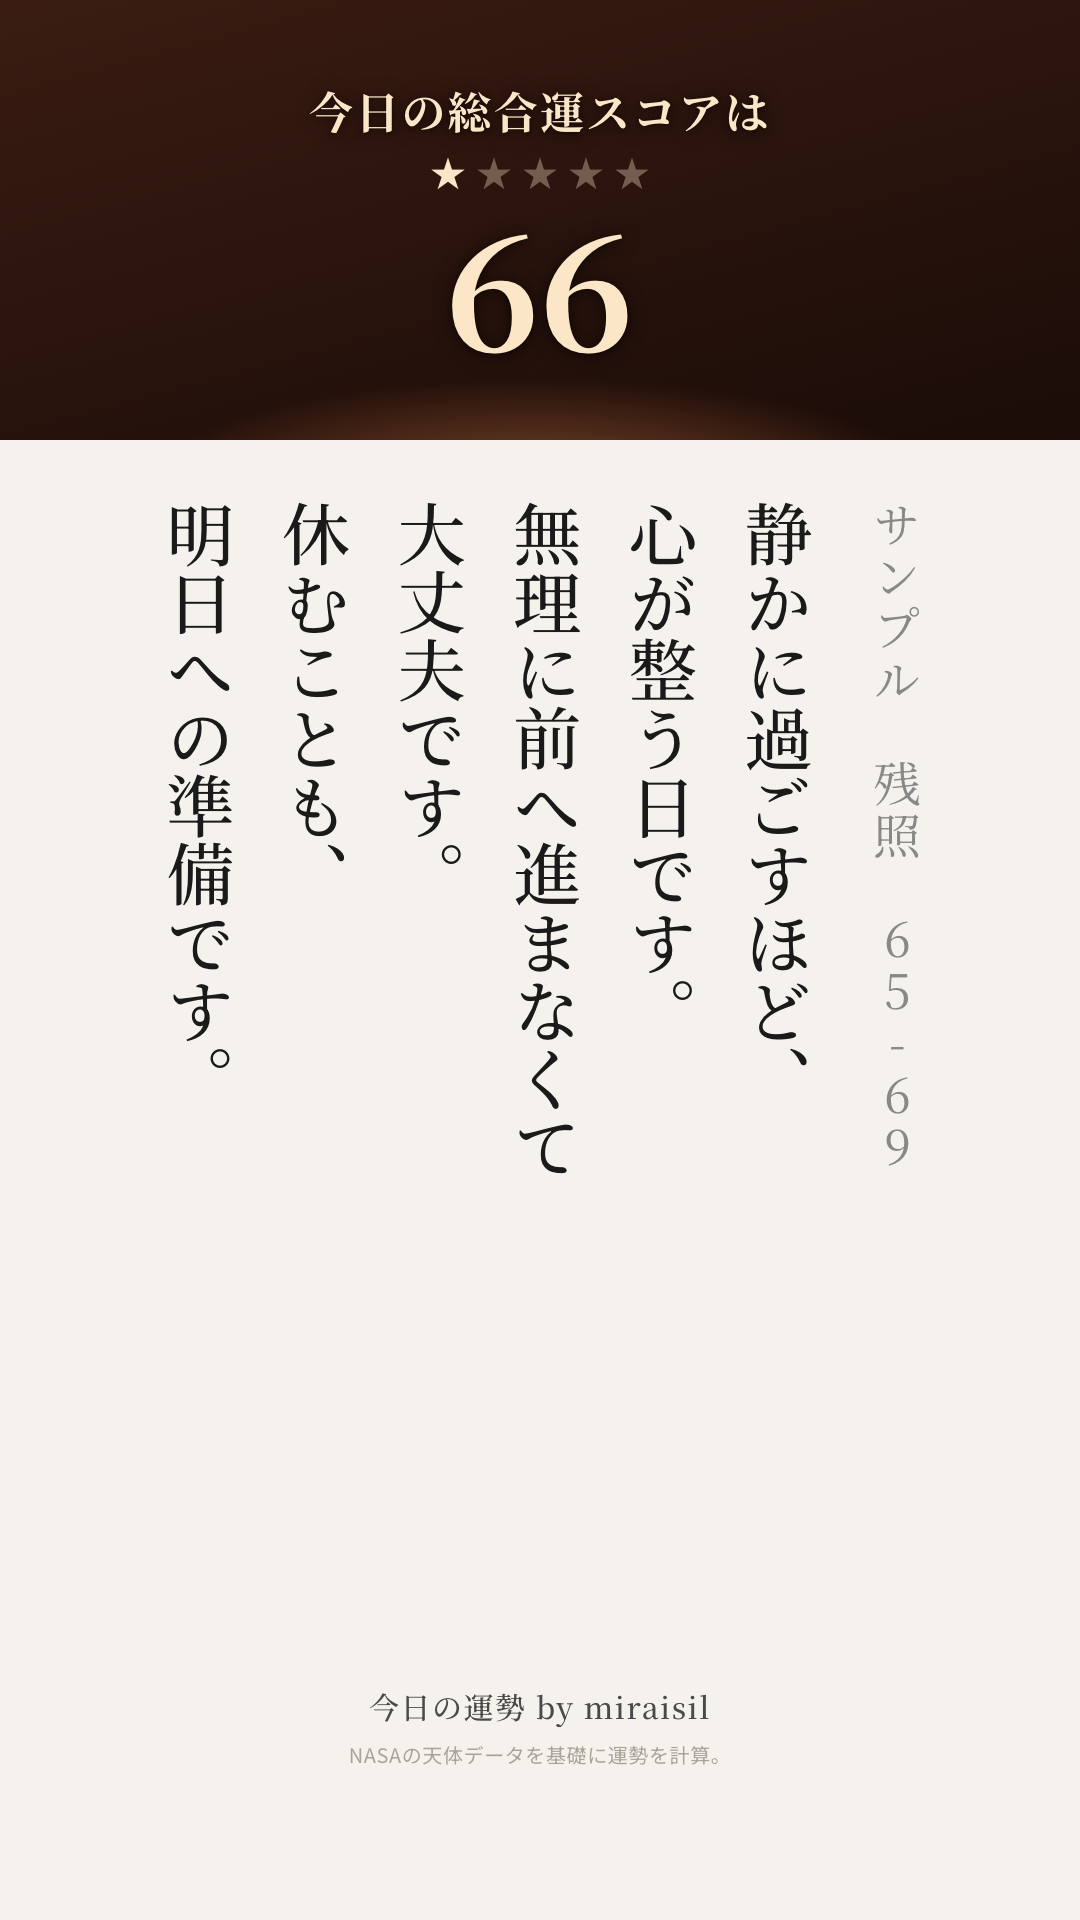
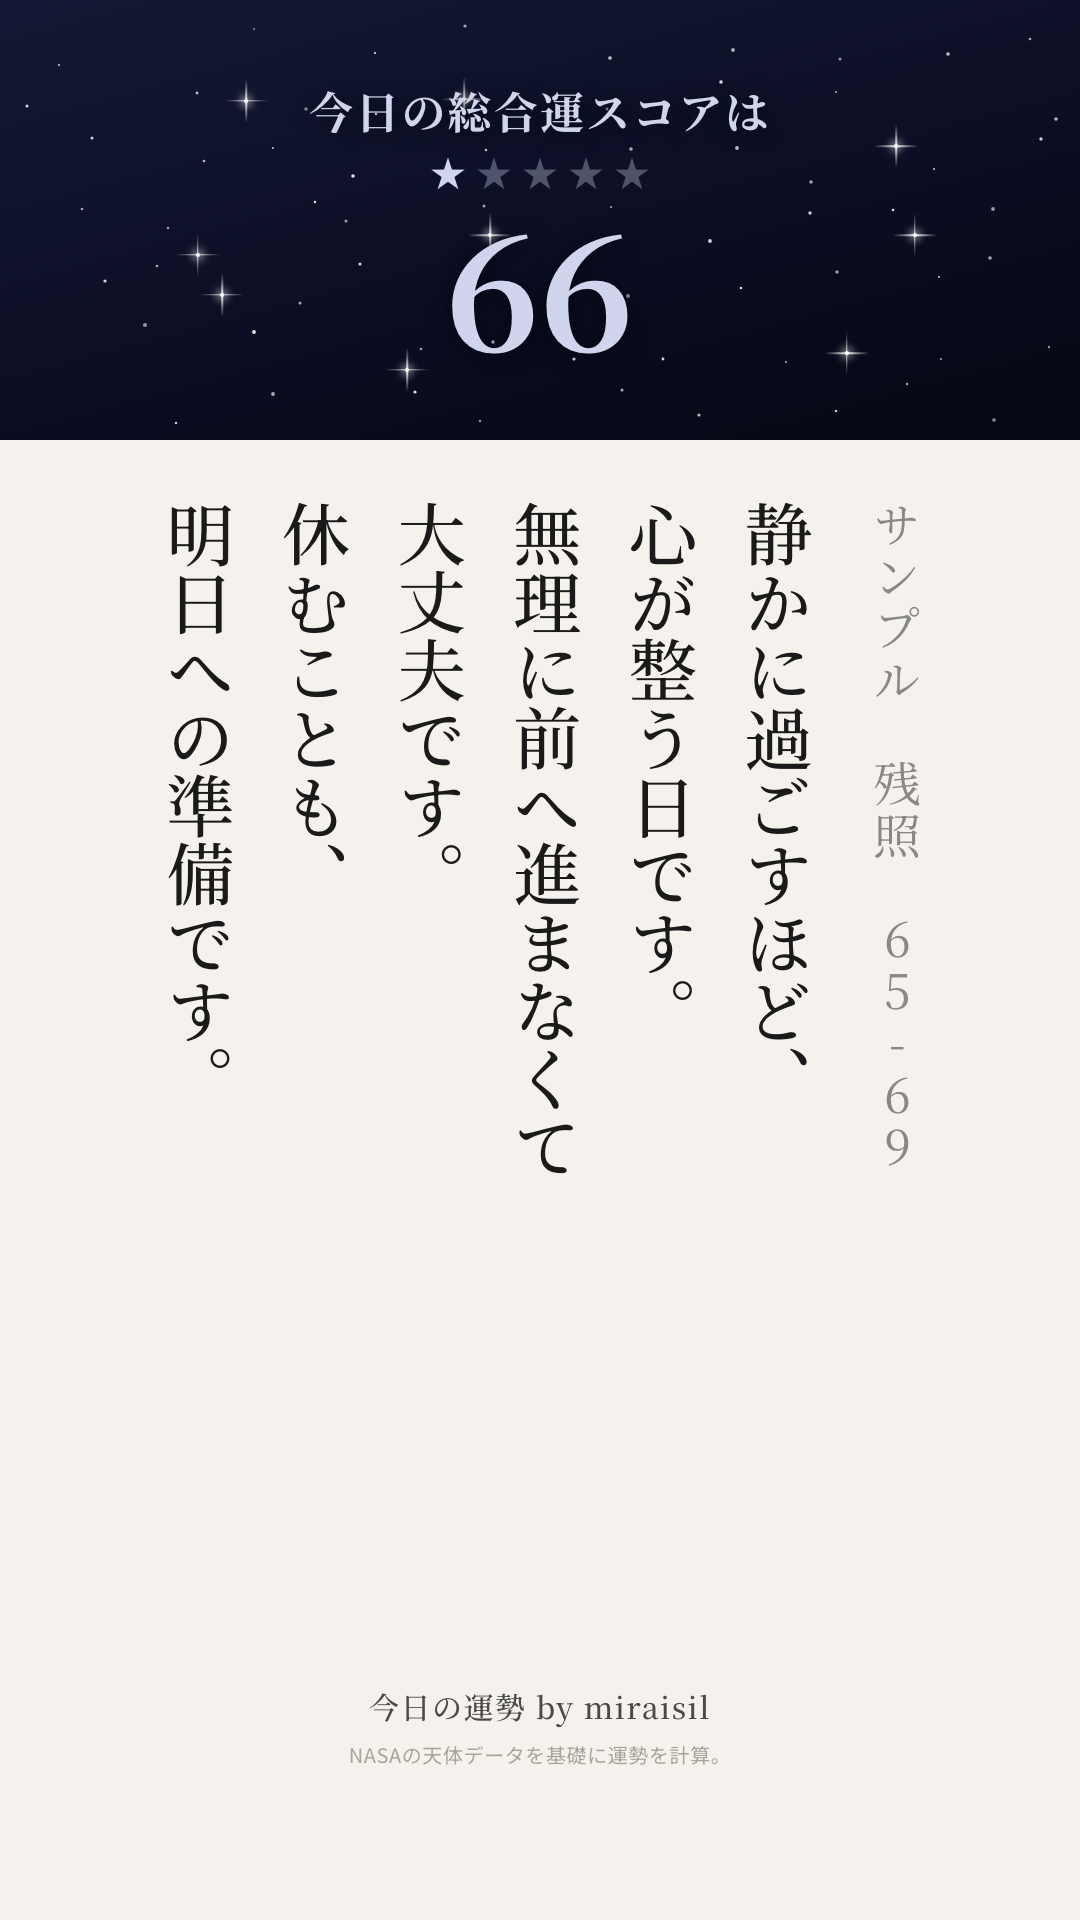
revert score band to the already-committed version (a499c89 / HEAD)
Today's session tried several score-band redesigns (warm-only, blue
spectrum, "small sky scene" sun prototypes), but a version had already
been finalized and committed yesterday (a499c89, unchanged through
HEAD). Reverts image_generator.py's score-band section back to HEAD
exactly, leaving today's unrelated CTA fixes untouched, and republishes
the confirmed 5-tier design (gold day -> real starfield night) here.
Removes the discarded sky-scene prototype images.

Changed region(s): [[0.0, 0.0, 1.0, 0.25]]

diff --git a/sky-test/index.html b/sky-test/index.html
@@ -4,7 +4,7 @@
 <meta charset="UTF-8">
 <meta name="viewport" content="width=device-width, initial-scale=1.0">
 <meta name="robots" content="noindex, nofollow">
-<title>スコア帯カラー「暖色・光の量」版 確認 | miraisil</title>
+<title>スコア帯カラー：確定版に差し戻し確認 | miraisil</title>
 <style>
   * { box-sizing: border-box; margin: 0; padding: 0; }
   body {
@@ -14,6 +14,7 @@
   h2 { text-align: center; font-size: 15px; letter-spacing: 0.1em; color: #ccc; margin: 30px 0 14px; }
   .label { text-align: center; font-size: 12px; letter-spacing: 0.1em; color: #999; margin-bottom: 10px; }
   .note { text-align: center; font-size: 12px; color: #888; margin: 0 20px 20px; line-height: 1.6; }
+  .note code { color: #bbb; background: #333; padding: 1px 5px; border-radius: 3px; }
   .row {
     display: flex; gap: 12px; overflow-x: auto; padding: 0 20px 10px;
     scroll-snap-type: x mandatory; -webkit-overflow-scrolling: touch;
@@ -24,95 +25,55 @@
   }
   figure { flex-shrink: 0; scroll-snap-align: start; }
   figcaption { text-align: center; font-size: 11px; color: #aaa; margin-top: 4px; }
+  .hr { border-top: 1px solid #3a3a3a; margin: 40px 20px; }
 </style>
 </head>
 <body>
-<div class="label">SCORE BAND COLOR「暖色・光の量」版 TEST &middot; Internal Only</div>
+<div class="label">SCORE BAND COLOR &middot; 確定版への差し戻し確認 &middot; Internal Only</div>
 <div class="note">
-方針転換: 「暗くしない・寒色/紫は一切使わない・全部暖色で明るい」。良し悪しの信号は
-明るさ/色相の飛びではなく「光の量」（太陽の白熱・光芒・きらめきの強さ）だけで表現する。
-高スコアほどエネルギッシュ、低スコアほど静かで柔らかい光になる。旧「漆黒の夜＋星空」
-（65-69）は廃止し、"静かな夕暮れ・残照"に置き換えた。
+本日このセッション中に何度もスコア帯（空グラデーション）を作り直したが、その前日
+（コミット時刻 2026-07-16 01:14）に一度「最終OK」となっていた版がすでに存在していた
+ため、本日分の変更（暖色オンリー版・青空スペクトル版・「小さな空の情景」プロトタイプ
+（96/85/77/66）等、一連の試行）はすべて破棄し、確定版に差し戻した。
+</div>
+<div class="note">
+確定版のコミット: <code>a499c89</code>（2026-07-16 01:14:09）
+「ストーリーズのスコア帯を空グラデーション5段階（信号版から刷新）に全面改修」<br>
+このコミットの内容は直後の <code>5629919</code>（2026-07-16 19:37:38・4枚構成への
+全面刷新）でも変更されずそのままHEADに残っていたため、実質的にHEAD =
+確定版のスコア帯、という状態だった。<br>
+差し戻し方法: <code>image_generator.py</code> の <code>SCORE_BAND_COLORS</code> /
+<code>_SKY_DECOR_CSS</code> / <code>_SKY_DECOR_HTML</code>（スコア帯生成部分一式）
+をHEAD時点の内容にそのまま置き換え。本日別途直したCTAスライド（見出し・サブライン・
+フッター位置）の変更はこの操作と無関係な箇所にあるため巻き込んでいない
+（<code>git diff HEAD</code> で確認済み、残る差分はCTA部分のみ）。
+</div>
+<div class="note">
+この操作は dataunsei-automation 側では何もコミットしていない（元々HEADと同じ内容に
+戻しただけなので、スコア帯に関して差分なし＝コミットの必要なし）。
 </div>
 
-<h2>「小さな空の情景」プロトタイプ（方針A・代表4スコアのみ）</h2>
+<h2>確定版：7段階（95-100 快晴 〜 65-69 夜）</h2>
 <div class="note">
-方針転換: 平らな色グラデでは暖色が金属/ブロンズに、中立ベージュが泥に見える問題を、
-"空の絵"にすることで解決する。色帯＝空、下のベージュ本文＝地面、境目＝地平線と捉え、
-空は「上空＝青、地平寄り＝暖色」の縦グラデを基本にした。太陽（円＋グロー）を1つ置き、
-その高さと輝きをスコアに連動させる: 96は澄んだ青空高くで白熱（光芒＋きらめき5個）、
-77は太陽が地平近くまで下がり上空は青のまま地平だけ金色に染まるゴールデンアワー、
-66は太陽が地平線ぎりぎり（大半が隠れる）で空は暖色の深い夕闇、地平にだけ残照が
-残る（真っ黒・紫にはしない）。<br>
-文字色は空の明暗に応じて調整: 96・85は濃紺、77は濃い金茶、66は淡い生成り。<br>
-背景グラデーションの色相は青(200-205°)→warm-neutral(37-60°、低彩度で緑を経由
-しない)→暖色(16-32°)の範囲のみで構成し、紫域・真っ黒は使用していません。<br>
-まずこの4枚（96/85/77/66）のみの実装です。7段階への正式展開は承認後に進めます。
-</div>
-<div class="note">
-【85を追加改善】指摘: 85が淡く洗い流されたような薄い空で、太陽も光芒なしで存在感が
-弱く、96と77に挟まれると"色あせて何もない"印象だった。→ 上空の青をより澄んで豊かな
-スカイブルーに（彩度47%→65%）、太陽にふんわり大きめのハローを追加して「陽が射して
-いる」存在感を出し、極薄の雲を3枚重ねて奥行きを足した（一色べったりのグラデを回避）。
-</div>
-<div class="note">
-【96と85の格差を再確保】指摘: 85を快晴に格上げした結果、96（青空＋白熱＋光芒）と
-85（青空＋ハロー＋薄雲）の差が縮まり、どちらも「明るい青空の太陽」で見分けにくく
-なった。→ 96は最初の版（太陽128px・光芒(強)・きらめき5個）にそのまま復帰。代わりに
-85側だけをもう一段引いた: 太陽92px→78px、ハローの半径・不透明度をさらに絞り、空の
-明るさもごくわずかに落として（豊かな青空・薄雲3枚は維持したまま）96より明確に控えめな
-「穏やかな快晴」に。
-</div>
-<div class="note">
-【96をさらに灼熱に振り切る】96だけを一段突き抜けさせる指示。太陽128px→168px、
-グローコアを白く強化（中心に近いほど不透明な白）、光芒を本数増・幅広・不透明度アップ
-（帯の上部いっぱいに広がるよう到達距離も拡大）、きらめきを5個→7個に増加。85・77・66は
-無変更（画像ハッシュで差分なしを確認済み）。「真夏の正午」のような圧倒的な光量にした。
+「快晴/青空/朝もや/夕暮れ/夜」と空の明るさでスコアの高低を表現する設計。
+95-100は面で焼く中心光＋薄い光芒＋レンズフレア＋金のきらめき5箇所。90-94は同じ構図で
+光を弱めた版。85-89は朝もや（もやの向こうに滲む太陽＋霞2本）。80-84も同系統でもう一段
+淡く。75-79は夕暮れ（暖色ではなく青〜ピンク〜オレンジのグラデ、白文字）。70-74は
+「暗くなっていく宇宙」。65-69は本物の星（60個以上、box-shadowによる光条つき）が浮かぶ
+夜空。
 </div>
 <div class="row">
-  <figure><img src="scene_96.png"><figcaption>96点 昼の絶頂 95-100 ★5<br>灼熱に振り切り（今回さらに強化）</figcaption></figure>
-  <figure><img src="scene_85.png"><figcaption>85点 気持ちのいい快晴 85-89 ★3<br>（前回と同一・無変更）</figcaption></figure>
-  <figure><img src="scene_77.png"><figcaption>77点 ゴールデンアワー 75-79 ★2<br>太陽：地平近く・上空は青のまま</figcaption></figure>
-  <figure><img src="scene_66.png"><figcaption>66点 沈んだ直後 65-69 ★1<br>太陽：地平線ぎりぎり・残照のみ</figcaption></figure>
+  <figure><img src="band_96.png"><figcaption>96点 快晴 95-100 ★5</figcaption></figure>
+  <figure><img src="band_92.png"><figcaption>92点 青空 90-94 ★4</figcaption></figure>
+  <figure><img src="band_85.png"><figcaption>85点 朝もや 85-89 ★3</figcaption></figure>
+  <figure><img src="band_82.png"><figcaption>82点 朝もや 80-84 ★3</figcaption></figure>
+  <figure><img src="band_77.png"><figcaption>77点 夕暮れ 75-79 ★2</figcaption></figure>
+  <figure><img src="band_72.png"><figcaption>72点 夕暮れ（深) 70-74 ★2</figcaption></figure>
+  <figure><img src="band_66.png"><figcaption>66点 夜 65-69 ★1</figcaption></figure>
 </div>
 <div class="note">
-96と85が一目で別物に見えるか（96が突き抜けているか、85が96の劣化版に見えないか）
-を確認してください。
-</div>
-<div class="note">
-この4枚で確認したいこと: (1)空の情景として成立しているか (2)77が"夕焼けの空"に
-見えるか（ブロンズの板に見えていないか） (3)66が"沈んだ夕闇"に見えるか
-（真っ黒・紫になっていないか） (4)太陽の高さだけで良し悪しが一目で読めるか。
-</div>
-
-<h2>（参考・旧版）青を戻した空スペクトル版</h2>
-<div class="note">
-方針転換: 前版が全部オレンジで「空」に見えなかったのを解消するため、高スコア側に
-青空を戻した。紫は引き続き不使用。上端(95-100)は澄んだ青空に太陽が白熱する空、
-80-84は青と暖色の境目を吸収する中立のうすもや帯、そこから75-79の夕焼け、
-70-74の深い夕闇を経て、65-69は真っ黒にはせず"暖色の深い闇"（深く沈んだ焦茶）で
-底を受け止める。<br>
-光の効果の強度配分は前版から変更なし（95-100が最も強く、下にいくほど静かに絞る）。
-青系の明るい帯(95-100〜85-89)は文字色を濃紺(#243d56)に、暖色の明るい帯
-(80-84・75-79)は濃い金茶(#5a4222)のまま、暗い帯(70-74・65-69)は淡い生成り
-(#fbe6c8)で可読性を確保。<br>
-色相は青(約200°)→中立ベージュ(約39°)→橙(約20-36°)→深い赤茶(約15°)へ地続きに
-移行し、紫域（270-320°付近）には一切入らないことを確認済み。
-</div>
-<div class="row">
-  <figure><img src="band_96.png"><figcaption>96点 白熱 95-100 ★5<br>#f2f8fb→#d2e6f2</figcaption></figure>
-  <figure><img src="band_92.png"><figcaption>92点 好天 90-94 ★4<br>#dcebf4→#bcd8ea</figcaption></figure>
-  <figure><img src="band_85.png"><figcaption>85点 うすもや 85-89 ★3<br>#e2e9ec→#cbd8de</figcaption></figure>
-  <figure><img src="band_82.png"><figcaption>82点 もや濃い 80-84 ★3<br>#e8e1d3→#d6c9b2（青⇄暖色の中立帯）</figcaption></figure>
-  <figure><img src="band_77.png"><figcaption>77点 夕焼け 75-79 ★2<br>#edcb99→#dba465</figcaption></figure>
-  <figure><img src="band_72.png"><figcaption>72点 深い夕闇 70-74 ★2<br>#b56e3e→#7e3f20（文字は生成りに）</figcaption></figure>
-  <figure><img src="band_66.png"><figcaption>66点 深く沈んだ底 65-69 ★1<br>#3a1c12→#1a0c08（文字は生成りに）</figcaption></figure>
-</div>
-<div class="note">
-7段階を横に並べた状態で、上端の青空〜下端の深い底まで青→中立→夕焼け→深闇で
-地続きに繋がっているか、中間（85/82/77）が見分けられるか、単独1枚でも
-上か下か伝わるか、紫・真っ黒が無いかを確認してください。80-84の中立帯で
-青→暖色の段差が自然に吸収できているかも見てください。
+これが確定版そのものであることを確認してください（96のゴールド、66の本物の星空など、
+本日の一連の試行とは別物であることが見て分かるはずです）。
 </div>
 </body>
 </html>
